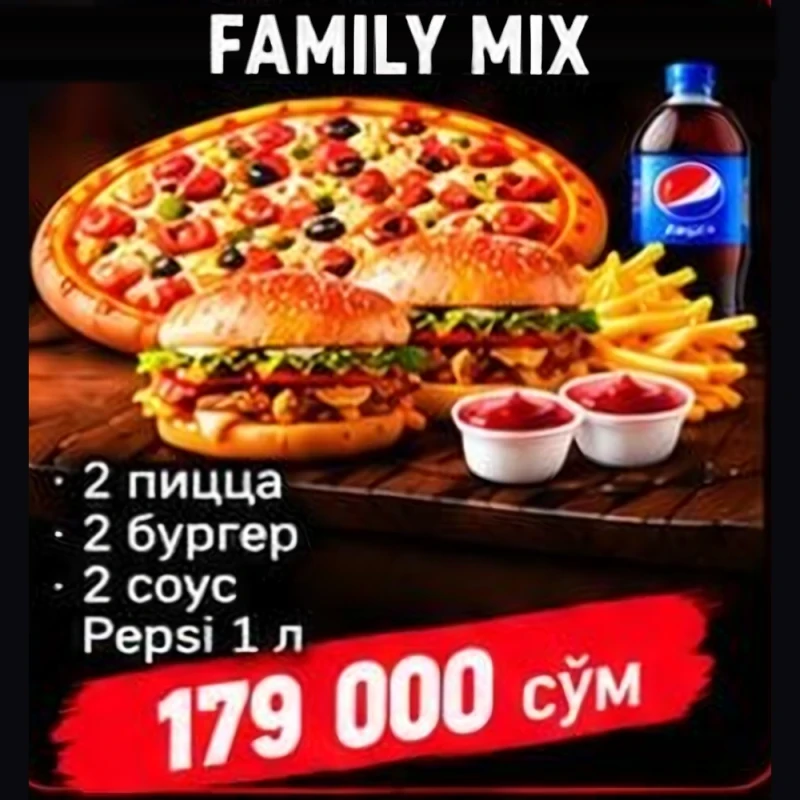
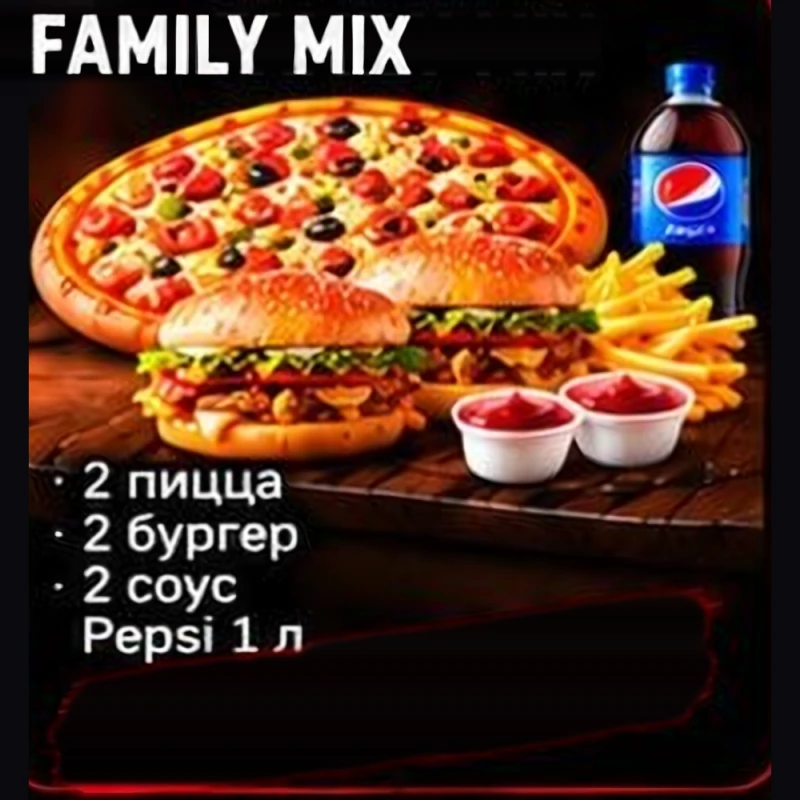
Kombo rasmlari narxsiz; eski aksiya 04-18 fayllari o'chirildi
- burger/chicken/oila/pitsa_kombo: 19 ta rasm yangi nusxasi (narx olib tashlangan)
- aksiya_kombo_600_v2: ishlatilmaydigan 04-18 fayllari o'chirildi (01-03, 21-23 qoldi)
- ASSET_VERSION va Mini App ?v=21 (rasm keshi yangilanadi)

Changed region(s): [[0.0625, 0.7188, 0.9062, 1.0], [0.0312, 0.0, 0.75, 0.0938]]

diff --git a/miniapp/index.html b/miniapp/index.html
@@ -15,12 +15,12 @@
   <!-- Telegram WebApp SDK boshqa skriptlardan oldin yuklanishi kerak -->
   <script src="https://telegram.org/js/telegram-web-app.js"></script>
   <!-- ?v=N: Telegram eski keshni ko'rsatmasligi uchun; har o'zgarishda raqamni oshiring -->
-  <link rel="stylesheet" href="style.css?v=20">
+  <link rel="stylesheet" href="style.css?v=21">
   <!-- Interfeys matnlari (uz/ru) va bot natijasini qo'llash - app.js dan oldin -->
-  <script src="i18n.js?v=20" defer></script>
-  <script src="config.js?v=20" defer></script>
-  <script src="result.js?v=20" defer></script>
-  <script src="app.js?v=20" defer></script>
+  <script src="i18n.js?v=21" defer></script>
+  <script src="config.js?v=21" defer></script>
+  <script src="result.js?v=21" defer></script>
+  <script src="app.js?v=21" defer></script>
 </head>
 <body>
   <div id="app" class="app">

diff --git a/miniapp/app.js b/miniapp/app.js
@@ -10,7 +10,7 @@
   const MENU_URL = 'menu.json';
   // Rasm URL'lariga ?v= qo'shiladi: _headers'da rasmlar 1 kun keshlanadi, shuning uchun rasm fayli nomini
   // o'zgartirmasdan almashtirilsa - shu raqamni (va index.html dagi ?v= ni, ikkalasi bir xil) oshiring.
-  const ASSET_VERSION = '20';
+  const ASSET_VERSION = '21';
   const LIMITS = {
     nameMin: 2,
     nameMax: 50,
